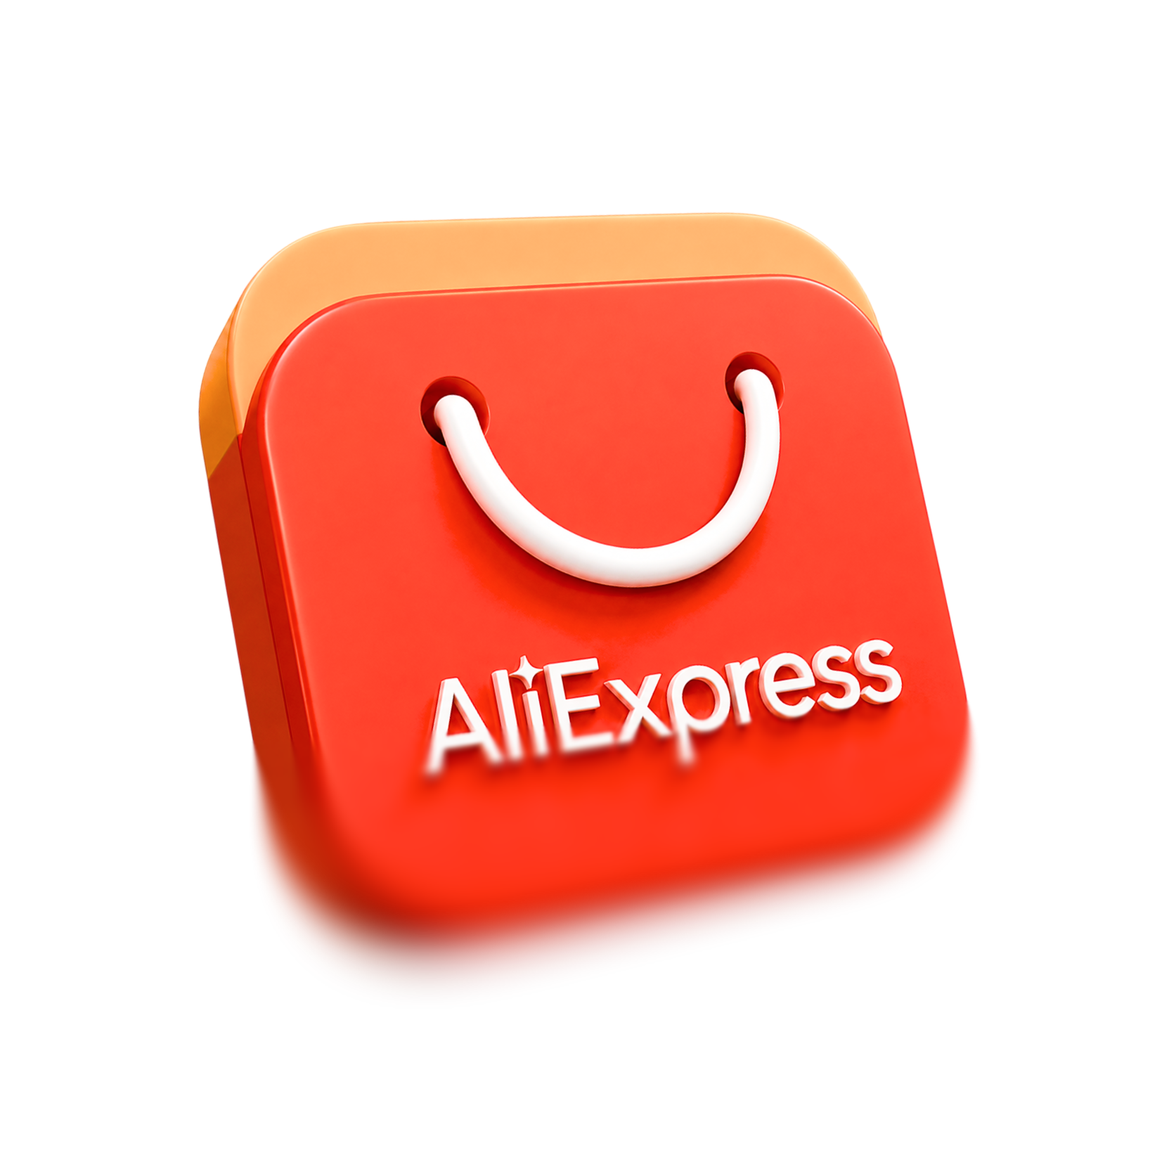
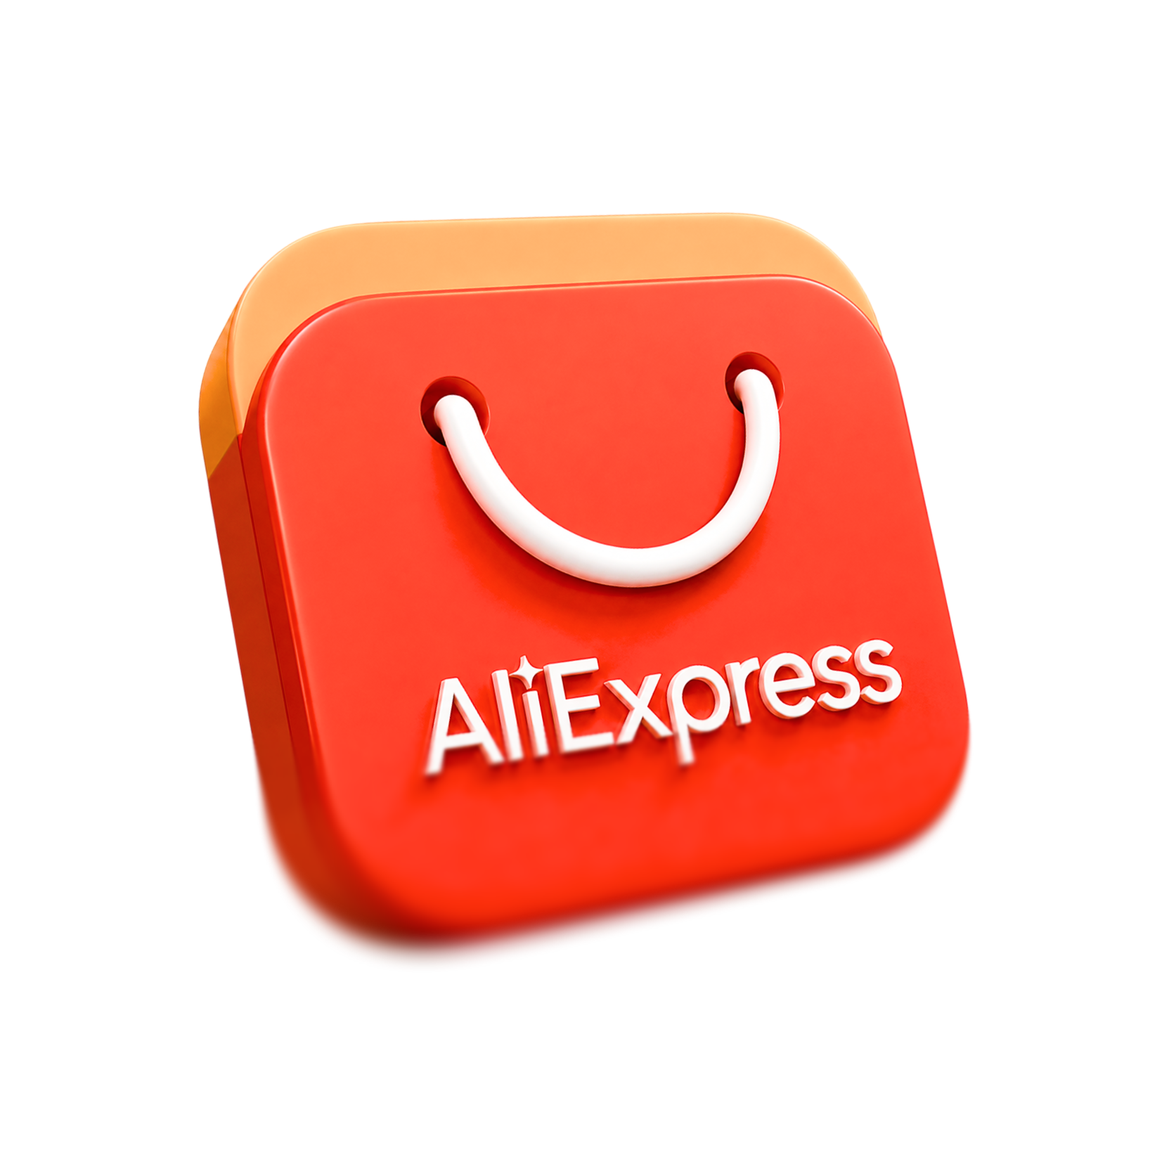
Polish project card artwork

diff --git a/src/styles.css b/src/styles.css
@@ -143,6 +143,8 @@ html[data-transition-route="works"]::view-transition-new(works-carousel){display
 .maria-works-deck-card.has-rarible{--works-card-back:linear-gradient(138deg,#211347 0%,#43206f 38%,#67278d 72%,#8e6711 100%);--works-card-footer:linear-gradient(180deg,#251853 0%,#3e2470 58%,#2a194d 100%);--works-card-footer-edge:rgba(221,202,255,.24)}
 .maria-works-deck-card.has-aliexpress{--works-card-back:linear-gradient(138deg,#fffaf6 0%,#ffe8d8 42%,#fff2eb 72%,#ffd0bd 100%);--works-card-footer:linear-gradient(180deg,#fffaf8 0%,#ffeadd 100%)}
 .maria-works-deck-card.has-mts-game{--works-card-back:linear-gradient(138deg,#08133d 0%,#1b2c70 38%,#4e1b74 72%,#8f223c 100%);--works-card-footer:linear-gradient(180deg,#10194c 0%,#25235f 52%,#321c4e 100%);--works-card-footer-edge:rgba(198,209,255,.2)}
+.maria-works-deck-card.has-rarible .rarible-project-card,.maria-works-deck-card.has-mts-game .mts-game-card{color:#fff8fb}
+.maria-works-deck-card.has-rarible .rarible-project-card__meta,.maria-works-deck-card.has-mts-game .mts-game-card__meta{color:rgba(255,238,246,.72)}
 .maria-works-carousel.is-entering:not(.is-entry-active) .maria-works-deck-card{transform:translate3d(calc(-50% + var(--works-entry-x)),calc(-50% + var(--works-entry-lift-y)),0) rotateY(var(--works-entry-rotate-y)) scale(.94)}
 .maria-works-carousel.is-entering.is-entry-active .maria-works-deck-card{animation:maria-works-card-enter .52s cubic-bezier(.2,.82,.24,1) both;animation-delay:calc(var(--works-entry-index) * 38ms)}
 @keyframes maria-works-card-enter{from{transform:translate3d(calc(-50% + var(--works-entry-x)),calc(-50% + var(--works-entry-lift-y)),0) rotateY(var(--works-entry-rotate-y)) scale(.94)}to{transform:translate3d(calc(-50% + var(--works-row-x)),-50%,0) rotateY(var(--works-row-rotate-y)) scale(var(--works-row-scale))}}
@@ -167,7 +169,7 @@ html[data-transition-route="works"]::view-transition-new(works-carousel){display
 .mts-flyout-overlay.is-active .mts-flyout-overlay__butterfly{animation:mts-butterfly-flyout-to-viewer 1.68s cubic-bezier(.18,.72,.16,1) .06s both}
 @keyframes mts-logo-flyout-to-viewer{0%{opacity:0;filter:blur(0);transform:translate(calc(-98% - 5vh),-50%) rotate(-4deg) scale(.28);animation-timing-function:cubic-bezier(.22,.45,.4,.82)}18%{opacity:1;filter:blur(0);transform:translate(calc(-125% - 5vh),-58%) rotate(-8deg) scale(1.4);animation-timing-function:cubic-bezier(.18,.35,.36,.82)}82%{opacity:1;filter:blur(0);transform:translate(calc(-330% - 5vh),-120%) rotate(-30deg) scale(7);animation-timing-function:cubic-bezier(.16,.38,.3,.86)}94%{opacity:1;filter:blur(12px);transform:translate(calc(-450% - 5vh),-158%) rotate(-39deg) scale(10.5);animation-timing-function:cubic-bezier(.12,.45,.22,.9)}100%{opacity:0;filter:blur(42px);transform:translate(calc(-587% - 5vh),-202%) rotate(-46deg) scale(13)}}
 @keyframes mts-butterfly-flyout-to-viewer{0%{opacity:0;filter:blur(0) drop-shadow(0 8px 14px rgba(155,175,255,.28));transform:translate(calc(-2% + 5vh),-50%) rotate(4deg) scale(.3);animation-timing-function:cubic-bezier(.22,.45,.4,.82)}18%{opacity:1;filter:blur(0) drop-shadow(0 8px 14px rgba(155,175,255,.28));transform:translate(calc(25% + 5vh),-58%) rotate(8deg) scale(1.4);animation-timing-function:cubic-bezier(.18,.35,.36,.82)}82%{opacity:1;filter:blur(0) drop-shadow(0 8px 14px rgba(155,175,255,.28));transform:translate(calc(230% + 5vh),-120%) rotate(30deg) scale(7);animation-timing-function:cubic-bezier(.16,.38,.3,.86)}94%{opacity:1;filter:blur(12px) drop-shadow(0 8px 14px rgba(155,175,255,.28));transform:translate(calc(350% + 5vh),-158%) rotate(39deg) scale(10.5);animation-timing-function:cubic-bezier(.12,.45,.22,.9)}100%{opacity:0;filter:blur(42px) drop-shadow(0 8px 14px rgba(155,175,255,.28));transform:translate(calc(487% + 5vh),-202%) rotate(46deg) scale(13)}}
-.mts-project-card__footer{position:absolute;z-index:4;left:0;right:0;bottom:0;height:25%;box-sizing:border-box;min-width:0;display:grid;grid-template-columns:auto minmax(0,1fr);align-items:center;gap:clamp(8px,.75vw,13px);padding:2.4cqi 5.5cqi 3.1cqi;background:var(--works-card-footer);border-radius:0 0 11.111cqi 11.111cqi;box-shadow:inset 0 1px 0 var(--works-card-footer-edge),0 -10px 24px rgba(91,68,96,.08);opacity:1;visibility:visible;transform:translateZ(.2px);backface-visibility:hidden}
+.mts-project-card__footer{position:absolute;z-index:4;left:0;right:0;bottom:0;height:25%;box-sizing:border-box;min-width:0;display:grid;grid-template-columns:auto minmax(0,1fr);align-items:center;gap:clamp(8px,.75vw,13px);padding:2.4cqi 5.5cqi 3.1cqi;background:var(--works-card-footer);border-radius:0 0 11.111cqi 11.111cqi;box-shadow:0 -10px 24px rgba(91,68,96,.08);opacity:1;visibility:visible;transform:translateZ(.2px);backface-visibility:hidden}
 .mts-project-card__file-icon{display:grid;place-items:center;width:clamp(24px,2.25vw,34px);aspect-ratio:1;border-radius:5px;background:#168cff;color:#fff}.mts-project-card__file-icon svg{width:70%;height:70%;fill:none;stroke:currentColor;stroke-width:1.65;stroke-linecap:round;stroke-linejoin:round}
 .mts-project-card__copy{min-width:0;display:flex;flex-direction:column;gap:clamp(2px,.35vw,6px)}
 .mts-project-card__title{overflow:hidden;font-size:clamp(13px,1.15vw,20px);font-weight:500;line-height:1.12;letter-spacing:-.025em;text-overflow:ellipsis;white-space:nowrap}
@@ -177,7 +179,7 @@ html[data-transition-route="works"]::view-transition-new(works-carousel){display
 .works-project-card__image,.works-project-card__image.concept-cover__image{position:absolute;z-index:2;inset:0;width:100%;height:100%;max-width:none;display:block;object-fit:contain;pointer-events:none}
 .works-project-card__placeholder-art{position:absolute;z-index:2;inset:0;background:radial-gradient(circle at 22% 28%,rgba(255,120,184,.18),transparent 28%),radial-gradient(circle at 78% 72%,rgba(164,39,102,.16),transparent 34%),linear-gradient(135deg,#13070e,#240a18 56%,#10070c)}
 .works-project-card__placeholder-art::after{content:"";position:absolute;inset:0;background:linear-gradient(112deg,transparent 20%,rgba(255,226,240,.08) 45%,transparent 65%)}
-.works-project-card__footer{position:absolute;z-index:4;left:0;right:0;bottom:0;height:25%;box-sizing:border-box;min-width:0;display:grid;grid-template-columns:auto minmax(0,1fr);align-items:center;gap:clamp(8px,.75vw,13px);padding:2.4cqi 5.5cqi 3.1cqi;background:var(--works-card-footer);border-radius:0 0 11.111cqi 11.111cqi;box-shadow:inset 0 1px 0 var(--works-card-footer-edge),0 -10px 24px rgba(91,68,96,.08);opacity:1;visibility:visible;transform:translateZ(.2px);backface-visibility:hidden}
+.works-project-card__footer{position:absolute;z-index:4;left:0;right:0;bottom:0;height:25%;box-sizing:border-box;min-width:0;display:grid;grid-template-columns:auto minmax(0,1fr);align-items:center;gap:clamp(8px,.75vw,13px);padding:2.4cqi 5.5cqi 3.1cqi;background:var(--works-card-footer);border-radius:0 0 11.111cqi 11.111cqi;box-shadow:0 -10px 24px rgba(91,68,96,.08);opacity:1;visibility:visible;transform:translateZ(.2px);backface-visibility:hidden}
 .works-project-card__file-icon{display:grid;place-items:center;width:clamp(24px,2.25vw,34px);aspect-ratio:1;border-radius:5px;background:#168cff;color:#fff}.works-project-card__file-icon svg{width:70%;height:70%;fill:none;stroke:currentColor;stroke-width:1.65;stroke-linecap:round;stroke-linejoin:round}
 .works-project-card__copy{min-width:0;display:flex;flex-direction:column;gap:clamp(2px,.35vw,6px)}
 .works-project-card__title{overflow:hidden;font-size:clamp(13px,1.15vw,20px);font-weight:500;line-height:1.12;letter-spacing:-.025em;text-overflow:ellipsis;white-space:nowrap}
@@ -188,7 +190,7 @@ html[data-transition-route="works"]::view-transition-new(works-carousel){display
 .mts-game-card__statue{position:absolute;z-index:3;right:-31%;top:-21%;width:78%;max-width:none;height:auto;display:block;opacity:0;transform:translate3d(-48%,10%,0) rotate(-5deg) scale(.68);transform-origin:40% 70%;pointer-events:none}
 .mts-game-card__girl{position:absolute;z-index:6;left:-18%;top:-5%;width:68%;max-width:none;height:auto;display:block;opacity:0;transform:translate3d(58%,12%,0) rotate(5deg) scale(.68);transform-origin:70% 72%;pointer-events:none}
 .mts-game-card__phones{position:absolute;z-index:5;left:50%;top:-20%;width:104%;max-width:none;height:auto;display:block;opacity:1;transform:translate3d(-50%,4%,0) scale(.613);transform-origin:50% 72%;transition:transform .72s cubic-bezier(.18,.76,.2,1);pointer-events:none}
-.mts-game-card__footer{position:absolute;z-index:20;left:0;right:0;bottom:0;height:25%;box-sizing:border-box;min-width:0;display:grid;grid-template-columns:auto minmax(0,1fr);align-items:center;gap:clamp(8px,.75vw,13px);padding:2.4cqi 5.5cqi 3.1cqi;background:var(--works-card-footer);border-radius:0 0 11.111cqi 11.111cqi;box-shadow:inset 0 1px 0 var(--works-card-footer-edge),0 -10px 24px rgba(91,68,96,.08);transform:translateZ(.2px);backface-visibility:hidden}
+.mts-game-card__footer{position:absolute;z-index:20;left:0;right:0;bottom:0;height:25%;box-sizing:border-box;min-width:0;display:grid;grid-template-columns:auto minmax(0,1fr);align-items:center;gap:clamp(8px,.75vw,13px);padding:2.4cqi 5.5cqi 3.1cqi;background:var(--works-card-footer);border-radius:0 0 11.111cqi 11.111cqi;box-shadow:0 -10px 24px rgba(91,68,96,.08);transform:translateZ(.2px);backface-visibility:hidden}
 .mts-game-card__file-icon{display:grid;place-items:center;width:clamp(24px,2.25vw,34px);aspect-ratio:1;border-radius:5px;background:#168cff;color:#fff}.mts-game-card__file-icon svg{width:70%;height:70%;fill:none;stroke:currentColor;stroke-width:1.65;stroke-linecap:round;stroke-linejoin:round}
 .mts-game-card__copy{min-width:0;display:flex;flex-direction:column;gap:clamp(2px,.35vw,6px)}
 .mts-game-card__title{overflow:hidden;font-size:clamp(13px,1.15vw,20px);font-weight:500;line-height:1.12;letter-spacing:-.025em;text-overflow:ellipsis;white-space:nowrap}
@@ -208,7 +210,7 @@ html[data-transition-route="works"]::view-transition-new(works-carousel){display
 .rarible-project-card__cover{position:absolute;z-index:5;left:50%;top:-40%;width:88%;max-width:none;height:auto;display:block;transform:translate3d(-50%,7%,0) scale(.68);transform-origin:50% 72%;transition:transform .72s cubic-bezier(.18,.76,.2,1);pointer-events:none}
 .rarible-project-card__ape{position:absolute;z-index:6;left:-7%;top:13%;width:47%;max-width:none;height:auto;display:block;opacity:0;transform:translate3d(72%,10%,0) rotate(0deg) scale(.68);transform-origin:72% 72%;pointer-events:none}
 .rarible-project-card__logo{position:absolute;z-index:6;right:-5%;top:42%;width:42%;max-width:none;height:auto;display:block;opacity:0;transform:translate3d(-72%,10%,0) rotate(0deg) scale(.68);transform-origin:28% 72%;pointer-events:none}
-.rarible-project-card__footer{position:absolute;z-index:20;left:0;right:0;bottom:0;height:25%;box-sizing:border-box;min-width:0;display:grid;grid-template-columns:auto minmax(0,1fr);align-items:center;gap:clamp(8px,.75vw,13px);padding:2.4cqi 5.5cqi 3.1cqi;background:var(--works-card-footer);border-radius:0 0 11.111cqi 11.111cqi;box-shadow:inset 0 1px 0 var(--works-card-footer-edge),0 -10px 24px rgba(91,68,96,.08);transform:translateZ(.2px);backface-visibility:hidden}
+.rarible-project-card__footer{position:absolute;z-index:20;left:0;right:0;bottom:0;height:25%;box-sizing:border-box;min-width:0;display:grid;grid-template-columns:auto minmax(0,1fr);align-items:center;gap:clamp(8px,.75vw,13px);padding:2.4cqi 5.5cqi 3.1cqi;background:var(--works-card-footer);border-radius:0 0 11.111cqi 11.111cqi;box-shadow:0 -10px 24px rgba(91,68,96,.08);transform:translateZ(.2px);backface-visibility:hidden}
 .rarible-project-card__file-icon{display:grid;place-items:center;width:clamp(24px,2.25vw,34px);aspect-ratio:1;border-radius:5px;background:#168cff;color:#fff}.rarible-project-card__file-icon svg{width:70%;height:70%;fill:none;stroke:currentColor;stroke-width:1.65;stroke-linecap:round;stroke-linejoin:round}
 .rarible-project-card__copy{min-width:0;display:flex;flex-direction:column;gap:clamp(2px,.35vw,6px)}
 .rarible-project-card__title{overflow:hidden;font-size:clamp(13px,1.15vw,20px);font-weight:500;line-height:1.12;letter-spacing:-.025em;text-overflow:ellipsis;white-space:nowrap}
@@ -224,10 +226,10 @@ html[data-transition-route="works"]::view-transition-new(works-carousel){display
 .aliexpress-project-card__surface{position:absolute;z-index:1;inset:0 0 25%;border-radius:11.111cqi 11.111cqi 0 0;background:var(--works-card-back);box-shadow:0 13px 28px rgba(48,54,64,.14);pointer-events:none}
 .aliexpress-project-card__artwork{position:absolute;z-index:2;inset:0 0 25%;overflow:visible;clip-path:inset(-100vh -100vw 0 -100vw);opacity:0;transition:opacity .28s ease;pointer-events:none}
 .aliexpress-project-card__phones{position:absolute;z-index:4;left:50%;top:-6%;width:118%;max-width:none;height:auto;display:block;transform:translate3d(-50%,9%,0) scale(.68);transform-origin:50% 70%;transition:transform .72s cubic-bezier(.18,.76,.2,1);pointer-events:none}
-.aliexpress-project-card__bag{position:absolute;z-index:6;left:-2%;top:18%;width:34%;max-width:none;height:auto;display:block;opacity:0;transform:translate3d(78%,15%,0) rotate(-12deg) scale(.58);transform-origin:65% 72%;pointer-events:none}
-.aliexpress-project-card__heart{position:absolute;z-index:6;right:-1%;top:25%;width:26%;max-width:none;height:auto;display:block;opacity:0;transform:translate3d(-80%,11%,0) rotate(10deg) scale(.55);transform-origin:34% 72%;pointer-events:none}
-.aliexpress-project-card__sparkles{position:absolute;z-index:7;right:9%;top:0;width:20%;max-width:none;height:auto;display:block;opacity:0;transform:translate3d(-38%,48%,0) rotate(10deg) scale(.5);transform-origin:36% 74%;pointer-events:none}
-.aliexpress-project-card__footer{position:absolute;z-index:20;left:0;right:0;bottom:0;height:25%;box-sizing:border-box;min-width:0;display:grid;grid-template-columns:auto minmax(0,1fr);align-items:center;gap:clamp(8px,.75vw,13px);padding:2.4cqi 5.5cqi 3.1cqi;background:var(--works-card-footer);border-radius:0 0 11.111cqi 11.111cqi;box-shadow:inset 0 1px 0 var(--works-card-footer-edge),0 -10px 24px rgba(91,68,96,.08);transform:translateZ(.2px);backface-visibility:hidden}
+.aliexpress-project-card__bag{position:absolute;z-index:6;left:-2%;top:30%;width:34%;max-width:none;height:auto;display:block;opacity:0;transform:translate3d(78%,15%,0) rotate(-12deg) scale(.58);transform-origin:65% 72%;pointer-events:none}
+.aliexpress-project-card__heart{position:absolute;z-index:6;right:-1%;top:37%;width:26%;max-width:none;height:auto;display:block;opacity:0;transform:translate3d(-80%,11%,0) rotate(10deg) scale(.55);transform-origin:34% 72%;pointer-events:none}
+.aliexpress-project-card__sparkles{position:absolute;z-index:7;right:14%;top:-6%;width:20%;max-width:none;height:auto;display:block;opacity:0;transform:translate3d(-38%,48%,0) rotate(10deg) scale(.5);transform-origin:36% 74%;pointer-events:none}
+.aliexpress-project-card__footer{position:absolute;z-index:20;left:0;right:0;bottom:0;height:25%;box-sizing:border-box;min-width:0;display:grid;grid-template-columns:auto minmax(0,1fr);align-items:center;gap:clamp(8px,.75vw,13px);padding:2.4cqi 5.5cqi 3.1cqi;background:var(--works-card-footer);border-radius:0 0 11.111cqi 11.111cqi;box-shadow:0 -10px 24px rgba(91,68,96,.08);transform:translateZ(.2px);backface-visibility:hidden}
 .aliexpress-project-card__file-icon{display:grid;place-items:center;width:clamp(24px,2.25vw,34px);aspect-ratio:1;border-radius:5px;background:#168cff;color:#fff}.aliexpress-project-card__file-icon svg{width:70%;height:70%;fill:none;stroke:currentColor;stroke-width:1.65;stroke-linecap:round;stroke-linejoin:round}
 .aliexpress-project-card__copy{min-width:0;display:flex;flex-direction:column;gap:clamp(2px,.35vw,6px)}
 .aliexpress-project-card__title{overflow:hidden;font-size:clamp(13px,1.15vw,20px);font-weight:500;line-height:1.12;letter-spacing:-.025em;text-overflow:ellipsis;white-space:nowrap}
@@ -266,14 +268,14 @@ html[data-transition-route="works"]::view-transition-new(works-carousel){display
 .theme-dark .maria-works-deck-card.has-aliexpress{--works-card-back:linear-gradient(138deg,#47172a 0%,#70213c 40%,#992c4e 72%,#bf3d65 100%);--works-card-footer:linear-gradient(180deg,#351745 0%,#562056 100%)}
 .theme-dark .maria-works-deck-card.has-mts-game{--works-card-back:linear-gradient(138deg,#091644 0%,#17296f 40%,#2e1d70 72%,#57235d 100%);--works-card-footer:linear-gradient(180deg,#0d1746 0%,#1b245e 54%,#2b1f58 100%)}
 .theme-dark .mts-project-card::before,.theme-dark .works-project-card::before{background:var(--works-card-back);box-shadow:0 13px 28px rgba(0,0,0,.24)}
-.theme-dark .mts-project-card__footer,.theme-dark .works-project-card__footer{background:var(--works-card-footer);box-shadow:inset 0 1px 0 var(--works-card-footer-edge),0 -10px 24px rgba(0,0,0,.2)}
+.theme-dark .mts-project-card__footer,.theme-dark .works-project-card__footer{background:var(--works-card-footer);box-shadow:0 -10px 24px rgba(0,0,0,.2)}
 .theme-dark .mts-project-card{color:#fff8fb}
 .theme-dark .mts-project-card__meta{color:rgba(255,238,246,.56)}
 .theme-dark .works-project-card__mts-flag{filter:drop-shadow(0 7px 8px rgba(255,24,81,.18))}
 .theme-dark .works-project-card__meta{color:rgba(255,238,246,.56)}
-.theme-dark .mts-game-card{color:#fff8fb}.theme-dark .mts-game-card__surface{background:var(--works-card-back);box-shadow:0 13px 28px rgba(0,0,0,.24)}.theme-dark .mts-game-card__footer{background:var(--works-card-footer);box-shadow:inset 0 1px 0 var(--works-card-footer-edge),0 -10px 24px rgba(0,0,0,.2)}.theme-dark .mts-game-card__meta{color:rgba(255,238,246,.56)}
-.theme-dark .rarible-project-card{color:#fff8fb}.theme-dark .rarible-project-card__surface{background:var(--works-card-back);box-shadow:0 13px 28px rgba(0,0,0,.24)}.theme-dark .rarible-project-card__footer{background:var(--works-card-footer);box-shadow:inset 0 1px 0 var(--works-card-footer-edge),0 -10px 24px rgba(0,0,0,.2)}.theme-dark .rarible-project-card__meta{color:rgba(255,238,246,.56)}
-.theme-dark .aliexpress-project-card{color:#fff8fb}.theme-dark .aliexpress-project-card__surface{background:var(--works-card-back);box-shadow:0 13px 28px rgba(0,0,0,.24)}.theme-dark .aliexpress-project-card__footer{background:var(--works-card-footer);box-shadow:inset 0 1px 0 var(--works-card-footer-edge),0 -10px 24px rgba(0,0,0,.2)}.theme-dark .aliexpress-project-card__meta{color:rgba(255,238,246,.56)}
+.theme-dark .mts-game-card{color:#fff8fb}.theme-dark .mts-game-card__surface{background:var(--works-card-back);box-shadow:0 13px 28px rgba(0,0,0,.24)}.theme-dark .mts-game-card__footer{background:var(--works-card-footer);box-shadow:0 -10px 24px rgba(0,0,0,.2)}.theme-dark .mts-game-card__meta{color:rgba(255,238,246,.56)}
+.theme-dark .rarible-project-card{color:#fff8fb}.theme-dark .rarible-project-card__surface{background:var(--works-card-back);box-shadow:0 13px 28px rgba(0,0,0,.24)}.theme-dark .rarible-project-card__footer{background:var(--works-card-footer);box-shadow:0 -10px 24px rgba(0,0,0,.2)}.theme-dark .rarible-project-card__meta{color:rgba(255,238,246,.56)}
+.theme-dark .aliexpress-project-card{color:#fff8fb}.theme-dark .aliexpress-project-card__surface{background:var(--works-card-back);box-shadow:0 13px 28px rgba(0,0,0,.24)}.theme-dark .aliexpress-project-card__footer{background:var(--works-card-footer);box-shadow:0 -10px 24px rgba(0,0,0,.2)}.theme-dark .aliexpress-project-card__meta{color:rgba(255,238,246,.56)}
 .maria-works-deck-card.is-hidden{opacity:0;visibility:hidden;pointer-events:none}
 .maria-works-deck-card.has-project{box-shadow:none}
 .maria-works-deck-card.has-project.is-centered{z-index:100}

diff --git a/src/maria/WorksCardCarousel.test.tsx b/src/maria/WorksCardCarousel.test.tsx
@@ -257,14 +257,14 @@ describe('WorksCardCarousel', () => {
     expect(cards[WORKS_PROJECT_INDEX + 1].querySelectorAll('.aliexpress-project-card__sparkles')).toHaveLength(1)
     expect(cards[WORKS_PROJECT_INDEX].querySelector('.mts-project-card')).not.toBeNull()
     expect(cards[WORKS_PROJECT_INDEX].querySelector('.works-project-card')).toBeNull()
-    expect(screen.getByText('Концепт v3 — Преза')).toBeInTheDocument()
-    expect(screen.getByText('Проект · МТС Финтех')).toBeInTheDocument()
+    expect(screen.getByText('Редизайн модуля оплаты МТС Pay')).toBeInTheDocument()
+    expect(screen.getByText('МТС Финтех 2026')).toBeInTheDocument()
     expect(screen.getByText('Rarible Charity Program')).toBeInTheDocument()
     expect(screen.getByText('Phystech Business Solutions')).toBeInTheDocument()
     expect(screen.getByText('AliExpress Collections')).toBeInTheDocument()
     expect(screen.getByText('AliExpress DAU Hackathon')).toBeInTheDocument()
-    expect(screen.getAllByText('Новый проект')).toHaveLength(11)
-    expect(screen.getAllByText('Скоро')).toHaveLength(11)
+    expect(screen.getAllByText('Новый проект')).toHaveLength(10)
+    expect(screen.getAllByText('Скоро')).toHaveLength(10)
     expect(container.querySelectorAll('.maria-works-deck-card:not(.is-hidden)')).toHaveLength(5)
     expect(container.querySelectorAll('.maria-works-deck-card.is-hidden')).toHaveLength(9)
     expect(container.querySelectorAll('.maria-works-deck-card__spine')).toHaveLength(0)
@@ -362,14 +362,14 @@ describe('WorksCardCarousel', () => {
   it('renders localized English project-card metadata', () => {
     render(<WorksCardCarousel onOpen={vi.fn()} language="en" />)
 
-    expect(screen.getByText('Concept v3 — Presentation')).toBeInTheDocument()
-    expect(screen.getByText('Project · MTS Fintech')).toBeInTheDocument()
+    expect(screen.getByText('MTS Pay payment module redesign')).toBeInTheDocument()
+    expect(screen.getByText('MTS Fintech 2026')).toBeInTheDocument()
     expect(screen.getByText('Rarible Charity Program')).toBeInTheDocument()
     expect(screen.getByText('Phystech Business Solutions')).toBeInTheDocument()
     expect(screen.getByText('AliExpress Collections')).toBeInTheDocument()
     expect(screen.getByText('AliExpress DAU Hackathon')).toBeInTheDocument()
-    expect(screen.getAllByText('New project')).toHaveLength(11)
-    expect(screen.getAllByText('Coming soon')).toHaveLength(11)
+    expect(screen.getAllByText('New project')).toHaveLength(10)
+    expect(screen.getAllByText('Coming soon')).toHaveLength(10)
   })
 
   it('prevents native card dragging', () => {

diff --git a/src/styles.test.js b/src/styles.test.js
@@ -450,8 +450,8 @@ describe('works card inner color and image hierarchy', () => {
     expect(styles).toContain('.theme-dark .maria-works-deck-card.has-aliexpress{--works-card-back:linear-gradient(138deg,#47172a 0%,#70213c 40%,#992c4e 72%,#bf3d65 100%);--works-card-footer:linear-gradient(180deg,#351745 0%,#562056 100%)}')
     expect(styles).toContain('.theme-dark .maria-works-deck-card.has-mts-game{--works-card-back:linear-gradient(138deg,#091644 0%,#17296f 40%,#2e1d70 72%,#57235d 100%);--works-card-footer:linear-gradient(180deg,#0d1746 0%,#1b245e 54%,#2b1f58 100%)}')
     expect(styles).not.toContain('height:78%;border-radius:inherit')
-    expect(styles).toContain('background:var(--works-card-footer);border-radius:0 0 11.111cqi 11.111cqi;box-shadow:inset 0 1px 0 var(--works-card-footer-edge),0 -10px 24px rgba(91,68,96,.08)')
-    expect(styles).toContain('.theme-dark .mts-project-card__footer,.theme-dark .works-project-card__footer{background:var(--works-card-footer);box-shadow:inset 0 1px 0 var(--works-card-footer-edge),0 -10px 24px rgba(0,0,0,.2)}')
+    expect(styles).toContain('background:var(--works-card-footer);border-radius:0 0 11.111cqi 11.111cqi;box-shadow:0 -10px 24px rgba(91,68,96,.08)')
+    expect(styles).toContain('.theme-dark .mts-project-card__footer,.theme-dark .works-project-card__footer{background:var(--works-card-footer);box-shadow:0 -10px 24px rgba(0,0,0,.2)}')
     expect(styles).not.toContain('works-project-card-back.svg')
     expect(styles).not.toContain('works-project-card-front.svg')
   })

diff --git a/src/maria/MtsGameProjectCard.tsx b/src/maria/MtsGameProjectCard.tsx
@@ -35,8 +35,8 @@ export default function MtsGameProjectCard({ language }: MtsGameProjectCardProps
         </svg>
       </span>
       <span className="mts-game-card__copy">
-        <strong className="mts-game-card__title">{language === 'ru' ? 'Новый проект' : 'New project'}</strong>
-        <span className="mts-game-card__meta">{language === 'ru' ? 'Скоро' : 'Coming soon'}</span>
+        <strong className="mts-game-card__title">{language === 'ru' ? 'Страницы игр на сайте МТС Оплата' : 'Game pages on the MTS Payment website'}</strong>
+        <span className="mts-game-card__meta">{language === 'ru' ? 'МТС Финтех 2024' : 'MTS Fintech 2024'}</span>
       </span>
     </span>
   </div>

diff --git a/src/maria/ConceptProject.tsx b/src/maria/ConceptProject.tsx
@@ -33,10 +33,10 @@ export default function ConceptProject({ onOpen, language }: ConceptProjectProps
       </span>
       <span className="mts-project-card__copy">
         <strong className="mts-project-card__title">
-          {language === 'ru' ? 'Концепт v3 — Преза' : 'Concept v3 — Presentation'}
+          {language === 'ru' ? 'Редизайн модуля оплаты МТС Pay' : 'MTS Pay payment module redesign'}
         </strong>
         <span className="mts-project-card__meta">
-          {language === 'ru' ? 'Проект · МТС Финтех' : 'Project · MTS Fintech'}
+          {language === 'ru' ? 'МТС Финтех 2026' : 'MTS Fintech 2026'}
         </span>
       </span>
     </span>
